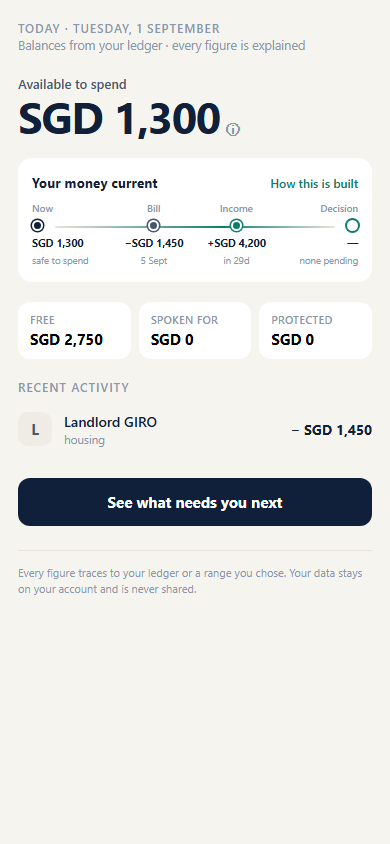
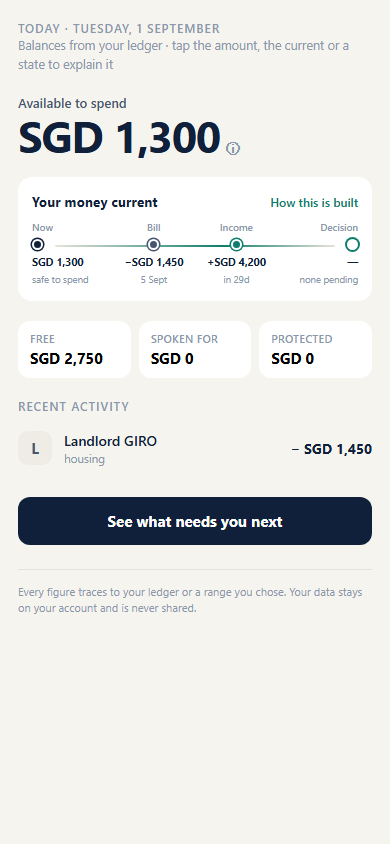
fix: dev-only seal-reason log + precise Today explain copy
- HomeHorizon.apply() logs the raw server seal reason
  (exceeds_regulatory_ceiling etc.) to the dev console only; the user
  still sees the human humanSealBlock() sentence.
- Today status line no longer claims "every figure is explained" (recent
  activity rows are raw ledger entries, not explained). It now names
  exactly what is tappable: the amount, the current, a state.

playwright 3/3, npm test unaffected, eslint clean, next build green.

Claude-Session: https://claude.ai/code/session_01WoyfsaXAy942YDrPqLGGjF

diff --git a/app/showcase/FutureBankSlice.jsx b/app/showcase/FutureBankSlice.jsx
@@ -404,7 +404,7 @@ function Today({ twin, state, partial, onReload, onExplain, onNext, onAddSource,
     <>
       <div>
         <p className={css.kicker}>Today · {new Date().toLocaleDateString("en-SG", { weekday: "long", day: "numeric", month: "long" })}</p>
-        <p className={css.micro}>Balances from your ledger · every figure is explained</p>
+        <p className={css.micro}>Balances from your ledger · tap the amount, the current or a state to explain it</p>
       </div>
 
       <div className={css.bigAmountWrap}>
@@ -562,6 +562,11 @@ function HomeHorizon({ onBack, onReceipt }) {
   const apply = async () => {
     const field = await seed({ monthly_contribution: pace });
     if (!field) return;
+    const v = field?.realityPath?.sealableVerdict;
+    if (v && v.sealable === false && process.env.NODE_ENV !== "production") {
+      // Technical reason stays in dev logs only; the user sees humanSealBlock().
+      console.warn(`[FutureBank] Home path not yet sealable — server reason: ${v.reason}`);
+    }
     setPath(field);
     setPhase("receipt");
     onReceipt?.();
